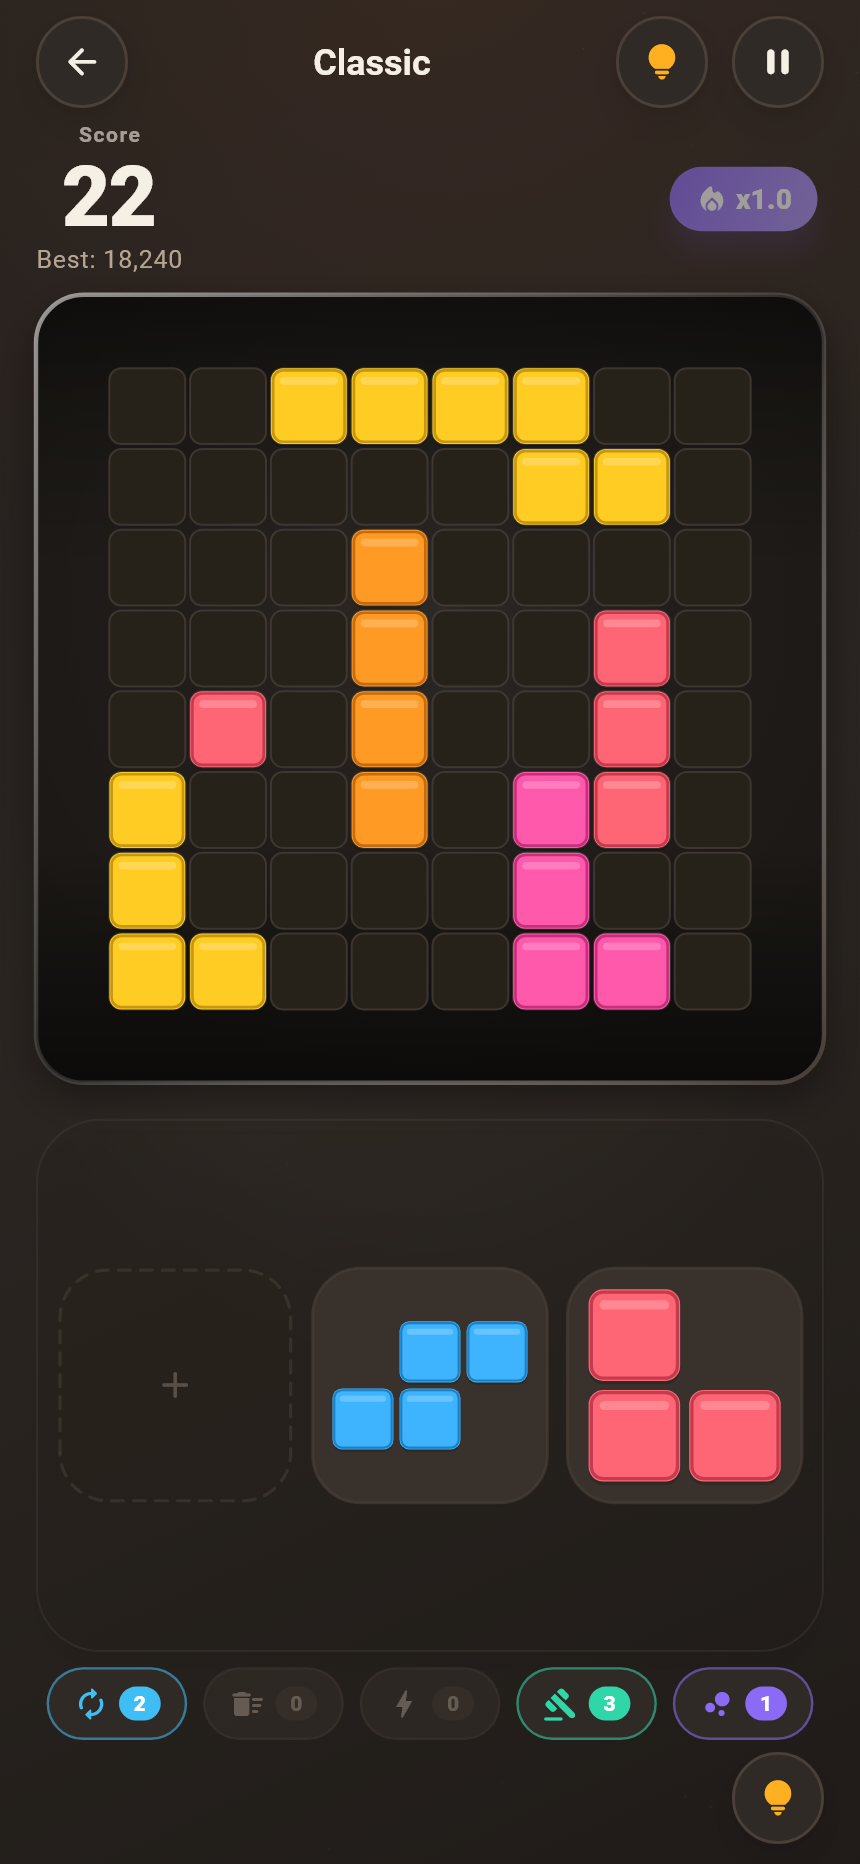
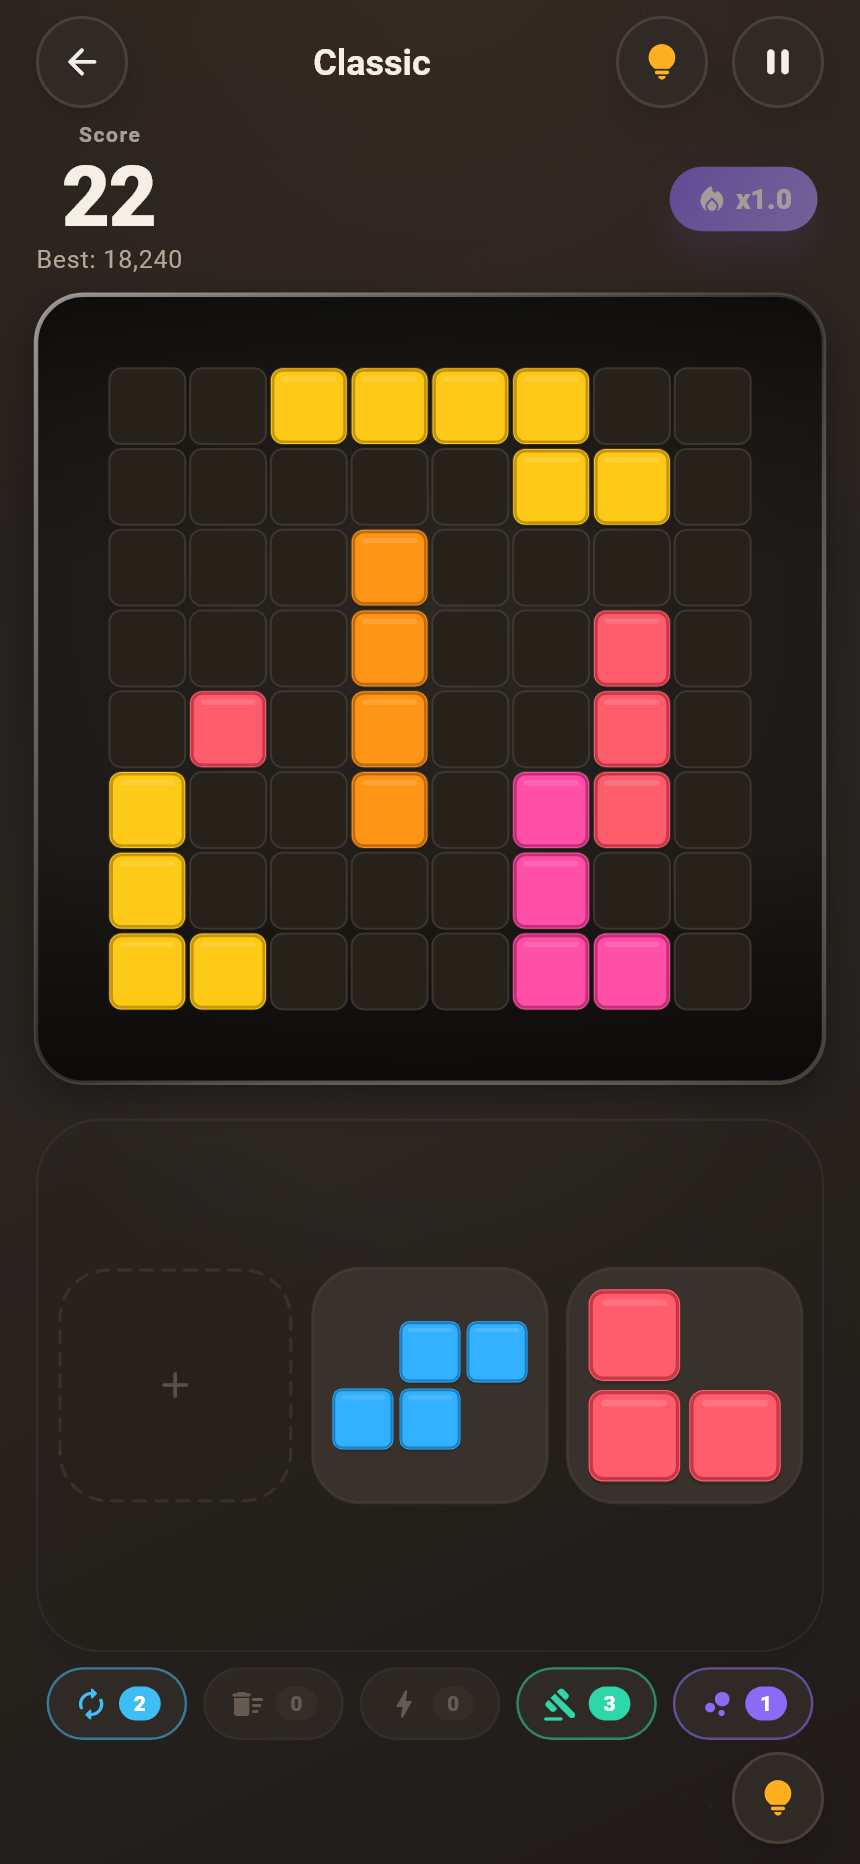
Polish the light theme and the matte material
- Stat chips tint their fill and switch to an ink version of the hue in light
  mode, so amber on beige and blue on pale blue stay readable
- Aurora blooms and the vignette fall to a faint level on light stages, which
  keeps the pale gradient airy instead of muddy
- Matte blocks lose most of their highlight band, so they read as printed
  cardboard rather than glossy plastic
- Quiet stages (blooms: false) no longer get the extra accent glow

diff --git a/lib/widgets/app_background.dart b/lib/widgets/app_background.dart
@@ -104,7 +104,12 @@ class _AppBackgroundState extends State<AppBackground>
               if (palette.blooms && widget.blooms)
                 IgnorePointer(child: CustomPaint(painter: _StagePainter(palette))),
               if (!palette.blooms)
-                IgnorePointer(child: CustomPaint(painter: _FlatStagePainter(palette))),
+                IgnorePointer(
+                  // The flat styles always get their accent glow; the aurora
+                  // style only loses it when the screen asked for a quiet
+                  // stage, which is why the glow is not unconditional here.
+                  child: CustomPaint(painter: _FlatStagePainter(palette)),
+                ),
               widget.child,
             ],
           ),
@@ -153,38 +158,41 @@ class _StagePainter extends CustomPainter {
     }
 
     final double shortest = size.shortestSide;
+    // Blooms are light on a dark stage, but muddy on a pale one, so the light
+    // theme gets a much fainter version of the same composition.
+    final double k = palette.isDark ? 1 : 0.38;
     bloom(
       Offset(size.width * 0.18, size.height * 0.08),
       shortest * 0.55,
       palette.accent,
-      0.26,
+      0.26 * k,
     );
     bloom(
       Offset(size.width * 0.92, size.height * 0.22),
       shortest * 0.48,
       AppColors.magenta,
-      0.18,
+      0.18 * k,
     );
     bloom(
       Offset(size.width * 0.6, size.height * 0.95),
       shortest * 0.6,
       AppColors.sky,
-      0.16,
+      0.16 * k,
     );
     bloom(
       Offset(size.width * 0.15, size.height * 0.72),
       shortest * 0.42,
       AppColors.mint,
-      0.10,
+      0.10 * k,
     );
     bloom(
       Offset(size.width * 0.85, size.height * 0.75),
       shortest * 0.40,
       AppColors.amber,
-      0.10,
+      0.10 * k,
     );
 
-    _vignette(canvas, size);
+    _vignette(canvas, size, strength: palette.isDark ? 0.16 : 0.05);
 
     // Static sparkle field: tiny deterministic dots that give the gradient a
     // premium, printed-foil texture. Deterministic so it never shimmers
@@ -226,9 +234,19 @@ class _FlatStagePainter extends CustomPainter {
     if (palette.style == VisualStyle.matte) {
       _paintGrain(canvas, size);
     }
-    _vignette(canvas, size, strength: spec.scanlines ? 0.26 : 0.12);
 
-    // A single accent bloom keeps the flat stages from looking dead.
+    _vignette(
+      canvas,
+      size,
+      strength: palette.isDark ? (spec.scanlines ? 0.26 : 0.12) : 0.05,
+    );
+
+    // A single accent bloom keeps the flat styles from looking dead. Aurora only
+    // reaches this painter when the screen disabled its blooms, so the glow
+    // stays off there.
+    if (palette.blooms) {
+      return;
+    }
     canvas.drawCircle(
       Offset(size.width * 0.5, -size.height * 0.05),
       size.shortestSide * 0.9,

diff --git a/lib/screens/home/home_screen.dart b/lib/screens/home/home_screen.dart
@@ -345,12 +345,17 @@ class _StatChip extends StatelessWidget {
 
   @override
   Widget build(BuildContext context) {
+    final AppPalette palette = AppPalette.of(context);
+    // Dark stage: the candy hue is the text colour. Light stage: the same hue
+    // is tinted into the fill, and the ink version carries the text, otherwise
+    // amber on beige would be unreadable.
+    final Color ink = palette.isDark ? color : AppColors.ink(color);
     return Container(
       padding: const EdgeInsets.symmetric(horizontal: 14, vertical: 8),
       decoration: BoxDecoration(
-        color: color.withOpacity(0.12),
+        color: color.withValues(alpha: palette.isDark ? 0.12 : 0.18),
         borderRadius: BorderRadius.circular(AppRadius.md),
-        border: Border.all(color: color.withOpacity(0.24)),
+        border: Border.all(color: ink.withValues(alpha: 0.32)),
       ),
       child: Column(
         mainAxisSize: MainAxisSize.min,
@@ -360,13 +365,13 @@ class _StatChip extends StatelessWidget {
             style: Theme.of(context)
                 .textTheme
                 .labelSmall
-                ?.copyWith(color: color, letterSpacing: 0.6),
+                ?.copyWith(color: ink, letterSpacing: 0.6),
           ),
           const SizedBox(height: 2),
           Text(
             value,
             style: Theme.of(context).textTheme.titleMedium?.copyWith(
-                  color: color,
+                  color: ink,
                   fontWeight: FontWeight.w800,
                 ),
           ),

diff --git a/lib/game/widgets/painting/block_painter.dart b/lib/game/widgets/painting/block_painter.dart
@@ -1,4 +1,4 @@
-import 'dart:ui' as ui;
+import 'dart:ui' as ui;
 
 import 'package:flutter/material.dart';
 
@@ -278,8 +278,9 @@ class BlockPainter {
       Paint()..color = Colors.black.withOpacity(0.16 * alpha),
     );
 
-    // Pastel face: pulled towards white so the ink outline stays readable.
-    final Color face = Color.lerp(color.base, Colors.white, 0.14)!;
+    // Pastel face: pulled towards white so the ink outline stays readable,
+    // but only slightly - a matte print must not look lit from inside.
+    final Color face = Color.lerp(color.base, Colors.white, 0.09)!;
     canvas.drawRRect(body, Paint()..color = face.withOpacity(alpha));
 
     // Ink rim, drawn inside so neighbouring tiles never touch.
@@ -296,14 +297,14 @@ class BlockPainter {
     canvas.drawRRect(
       RRect.fromRectAndRadius(
         Rect.fromLTWH(
-          rect.left + rect.width * 0.12,
-          rect.top + rect.height * 0.12,
-          rect.width * 0.76,
-          rect.height * 0.10,
+          rect.left + rect.width * 0.14,
+          rect.top + rect.height * 0.11,
+          rect.width * 0.72,
+          rect.height * 0.07,
         ),
-        Radius.circular(rect.height * 0.05),
+        Radius.circular(rect.height * 0.035),
       ),
-      Paint()..color = Colors.white.withOpacity(0.22 * alpha),
+      Paint()..color = Colors.white.withOpacity(0.13 * alpha),
     );
   }
 

diff --git a/lib/core/theme/app_colors.dart b/lib/core/theme/app_colors.dart
@@ -68,6 +68,11 @@ class AppColors {
   static const Color darkText = Color(0xFFF4F1FF);
   static const Color darkTextMuted = Color(0xFFA69ED6);
 
+  /// Darkens a candy hue so it stays legible on a light surface. Used by
+  /// chips and badges, which are tinted pastel in light mode.
+  static Color ink(Color color, {double amount = 0.58}) =>
+      Color.lerp(color, const Color(0xFF1A1030), amount)!;
+
   // Semantic -------------------------------------------------------------
   static const Color success = Color(0xFF2FCB8C);
   static const Color danger = Color(0xFFFF5C7A);
